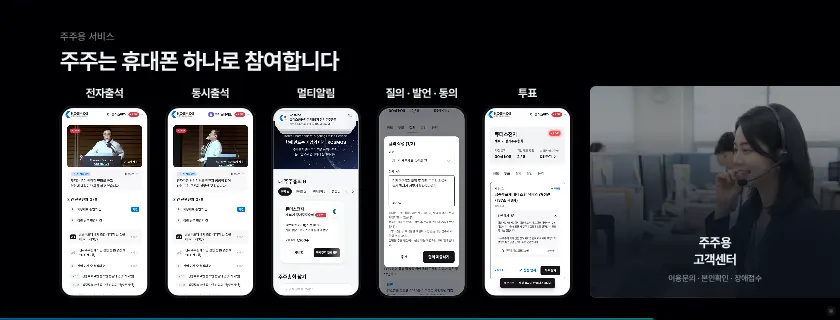
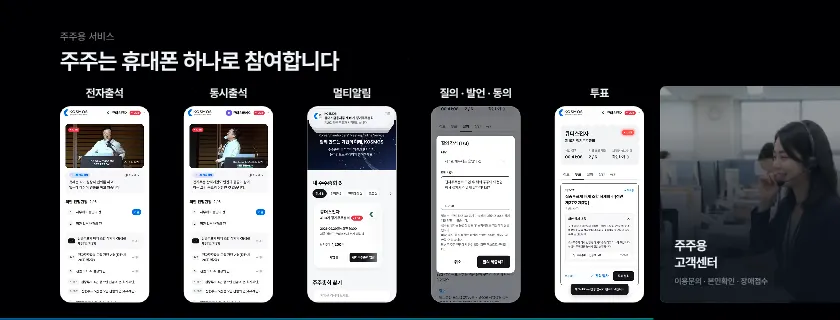
세션4 K24b 글 등장 순서(서브제목 → 제목 → 설명 → 목록), K26 휴대폰 프레임 없이 화면만 · 고객센터 카드 폭 줄이고 글 왼쪽 정렬 · 휴대폰 재정렬
Claude-Session: https://claude.ai/code/session_01Mn7NmyW5iujmmHnaRBFKBZ

diff --git a/sw.js b/sw.js
@@ -1,5 +1,5 @@
 /* 오프라인 캐시 — 온라인 주소(https)로 한 번 열면 모든 파일을 저장해 두고, 통신이 끊겨도 저장본으로 동작합니다. */
-const V='seminar-screen-11272326';
+const V='seminar-screen-11272327';
 const FILES=["./","assets/KakaoBigSans-Bold.woff2","assets/KakaoBigSans-Regular.woff2","assets/KakaoSmallSans-Bold.woff2","assets/KakaoSmallSans-Light.woff2","assets/KakaoSmallSans-Regular.woff2","assets/OrbitControls.js","assets/PretendardVariable.woff2","assets/attendees.js","assets/blue-bloom.html","assets/cong1.webp","assets/cong2.webp","assets/ds-bg.html","assets/four-states.html","assets/intro.mp4","assets/irk-white.svg","assets/irk-wordmark-white.svg","assets/kism-intro.mp4","assets/kism-white.svg","assets/ksmp-white.svg","assets/panel.js","assets/qa-online.js","assets/s2/img1.png","assets/s2/img2.png","assets/s2/img3.png","assets/s2/img4.png","assets/s4/aws.webp","assets/s4/callcenter.webp","assets/s4/chair-1.webp","assets/s4/chair-2.webp","assets/s4/chair-3.webp","assets/s4/conexus-word.webp","assets/s4/ctl-1.webp","assets/s4/cx-1.webp","assets/s4/cx-2.webp","assets/s4/cx-3.webp","assets/s4/cx-flow.mp4","assets/s4/cx-pop1.webp","assets/s4/cx-pop2.webp","assets/s4/cx-vote.mp4","assets/s4/cx-vote.webp","assets/s4/cxs-1.webp","assets/s4/insurance.webp","assets/s4/isms-t.webp","assets/s4/isms.webp","assets/s4/ismsp-t.webp","assets/s4/ismsp.webp","assets/s4/kosmos-white.png","assets/s4/ks-1.webp","assets/s4/ks-2.webp","assets/s4/ks-3.webp","assets/s4/ks-4.webp","assets/s4/ks-5.webp","assets/s4/ks-video.webp","assets/s4/live-1.webp","assets/s4/live-2.webp","assets/s4/live-3.webp","assets/s4/live-4.webp","assets/s4/live-5.webp","assets/s4/live-6.webp","assets/s4/live-7.webp","assets/s4/live-8.webp","assets/s4/logos.webp","assets/s4/ocr-1.webp","assets/s4/ocr-2.webp","assets/s4/ocr-3.webp","assets/s4/ocr-4.webp","assets/s4/ocr-5.webp","assets/s4/on-1.png","assets/s4/on-2.webp","assets/s4/on-3.webp","assets/s4/on-4.png","assets/s4/on-5.webp","assets/s4/onboard-1.webp","assets/s4/onboard-2.webp","assets/s4/privacy.webp","assets/s4/proxymity.svg","assets/s4/rehearsal.webp","assets/s4/streaming-korea.webp","assets/s4/tab-1.webp","assets/s4/tab-2.webp","assets/s4/team.webp","assets/sched.js","assets/screen-title-2.svg","assets/screen-title-b-text.svg","assets/screen-title-b.svg","assets/seat-banners.js","assets/seat-fascia.js","assets/seat-screen.js","assets/seatmap.js","assets/service-intro.mp4","assets/speaker-scott.webp","assets/speaker1-1.webp","assets/speaker2.webp","assets/speaker3-1.webp","assets/supabase.min.js","assets/three.min.js","assets/title-logos.svg","control.html","index-fs.html","index.html","kism.html","lobby/cuts.html","lobby/index.html","mc.html","session2.html","session4.html","sw.js","tools/s2_build.py","tools/s2_shell.html","assets/s3/p01.webp","assets/s3/p02.webp","assets/s3/p03.webp","assets/s3/p04.webp","assets/s3/p05.webp","assets/s3/p06.webp","assets/s3/p07.webp","assets/s3/p08.webp","assets/s3/p09.webp","assets/s3/p10.webp","assets/s3/p11.webp","assets/s3/p12.webp","assets/s3/p13.webp","assets/s3/p14.webp","assets/s3/p15.webp","assets/s3/p16.webp","assets/s3/p17.webp","assets/s3/p18.webp","assets/s3/p19.webp","assets/s3/p20.webp","assets/s3/p21.webp","assets/s3/p22.webp","assets/s3/p23.webp","assets/kism/photo-main.webp","assets/kism/photo-2.webp","assets/kism/photo-3.webp","assets/kism/photo-4.webp","assets/sound/countdown-tick.mp3","assets/sound/sfx-s3-part.mp3","assets/sound/sfx-s4-reveal.mp3","assets/sound/sfx-s5-proxymity.mp3","assets/sound/sfx-s6-chime.mp3","assets/sound/sfx-s7-close.mp3","assets/sound/sfx-k-chapter.mp3","assets/sound/sfx-k-close.mp3","assets/sound/opening-hit.mp3","assets/s4/kosmos-color.svg","assets/s4/ke-logo.png","assets/s4/ke-live.mp4","assets/kism/kwon-talk.mp4","assets/kism/manual-book.webp","kism-open.html","kism_16x9.html","led.html","assets/s4/cx-ops.mp4","assets/s4/cx-ops.webp","assets/s4/agent-app.mp4","assets/s4/kosmos-web.webp","assets/s4/ks-attend.mp4","assets/s4/ks-attend.webp","assets/s4/ks-switch.mp4","assets/s4/ks-switch.webp","assets/s4/ks-notify.mp4","assets/s4/ks-notify.webp","assets/s4/ks-vote.mp4","assets/s4/ks-vote.webp","assets/s4/ks-qna.mp4","assets/s4/ks-qna.webp","assets/s4/pc-map.webp","assets/s4/pc-map.mp4","assets/s4/pc-web.mp4","assets/s4/pc-web.webp","assets/s4/agent-app.webp","assets/s4/k24b-bg.webp","session0.html","face.html","assets/face-link.js","assets/kism/photo-main-cut.webp","assets/s4/cx-chair.mp4","assets/s4/cx-chair.webp","assets/s4/cx-test.mp4","assets/s4/cx-test.webp","assets/s4/onboard-mgr.webp","assets/s4/proxymity-logo.png","assets/s4/k21-bg.webp","assets/s4/kosmos-admin-white.svg","assets/kism-intro-16x9.mp4","assets/seat-guide.html","assets/s4/app-icon-agent.svg","assets/ds-main.mp4","assets/s4/k2-agency.webp","assets/s4/k2-support.webp","assets/s4/thumbs/K00.webp","assets/s4/thumbs/K01.webp","assets/s4/thumbs/K02.webp","assets/s4/thumbs/K03.webp","assets/s4/thumbs/K04.webp","assets/s4/thumbs/K05.webp","assets/s4/thumbs/K06.webp","assets/s4/thumbs/K07.webp","assets/s4/thumbs/K08.webp","assets/s4/thumbs/K09.webp","assets/s4/thumbs/K10.webp","assets/s4/thumbs/K11.webp","assets/s4/thumbs/K12.webp","assets/s4/thumbs/K13.webp","assets/s4/thumbs/K14.webp","assets/s4/thumbs/K15.webp","assets/s4/thumbs/K16.webp","assets/s4/thumbs/K17.webp","assets/s4/thumbs/K18a.webp","assets/s4/thumbs/K18b.webp","assets/s4/thumbs/K18c.webp","assets/s4/thumbs/K19.webp","assets/s4/thumbs/K19b.webp","assets/s4/thumbs/K19c.webp","assets/s4/thumbs/K20.webp","assets/s4/thumbs/K21.webp","assets/s4/thumbs/K21b.webp","assets/s4/thumbs/K22s.webp","assets/s4/thumbs/K23.webp","assets/s4/thumbs/K23b.webp","assets/s4/thumbs/K24a.webp","assets/s4/thumbs/K24b.webp","assets/s4/thumbs/K24c.webp","assets/s4/thumbs/K25.webp","assets/s4/thumbs/K25b.webp","assets/s4/thumbs/K26.webp","assets/s4/thumbs/K27.webp","assets/s4/thumbs/K28a.webp","assets/s4/thumbs/K28b.webp","assets/s4/thumbs/K28c.webp","assets/s4/thumbs/K28d.webp","assets/s4/thumbs/K29.webp","assets/s4/thumbs/K30.webp","assets/s4/thumbs/K09b.webp","assets/s4/thumbs/K28e.webp","assets/s4/thumbs/K28p.webp","assets/s4/onsite-vote.mp4","assets/s4/onsite-vote.webp","assets/s4/rehearsal-site.webp","assets/qr-ask.svg","assets/inv/bnp.png","assets/inv/bny.png","assets/inv/citi.png","assets/inv/computershare.png","assets/inv/deutsche-bank.png","assets/inv/deutsche-boerse.png","assets/inv/euroclear.png","assets/inv/hsbc.png","assets/inv/jpmorgan.png","assets/inv/mufg.png","assets/inv/state-street.png","assets/proxymity-logo.png","assets/sound/break-bgm.mp3","assets/sound/wait-bgm.mp3","assets/s4/beacon.webp","assets/s4/k27-partner.webp"];
 self.addEventListener('install',e=>{e.waitUntil(caches.open(V).then(c=>c.addAll(FILES)).then(()=>self.skipWaiting()));});
 self.addEventListener('activate',e=>{e.waitUntil(caches.keys().then(ks=>Promise.all(ks.filter(k=>k!==V).map(k=>caches.delete(k)))).then(()=>self.clients.claim()));});

diff --git a/session4.html b/session4.html
@@ -2299,6 +2299,15 @@ html.r169 #K13 .dg{margin-bottom:210px!important}
 #K24b .k24fl .k24bv .scr{border-radius:54px!important}
 #K24a .k24map{padding:22px;border-radius:56px 0 0 0!important;background:linear-gradient(135deg,rgba(0,129,204,.55),rgba(0,173,169,.35) 45%,rgba(255,255,255,.08))!important;box-shadow:0 0 160px rgba(0,129,204,.22)!important}
 #K24a .k24map video{border-radius:36px 0 0 0;box-shadow:0 0 0 2px rgba(255,255,255,.6)}
+/* 11/27 23:40 K24b 왼쪽 글 등장 순서: 서브제목 → 제목 → 설명 → 목록 (목록이 먼저 뜨던 것 수정) */
+.s.cur#K24b .k24bt>:nth-child(1){animation-delay:.2s!important}.s.cur#K24b .k24bt>:nth-child(2){animation-delay:.35s!important}.s.cur#K24b .k24bt>:nth-child(3){animation-delay:.55s!important}.s.cur#K24b .k24bt>:nth-child(4){animation-delay:.8s!important}
+
+/* 11/27 23:45 K26 휴대폰 프레임 없이 화면만(446×981, 둥근 모서리), 고객센터 카드 폭 줄이고(3300~오른쪽 끝) 글 왼쪽 정렬, 남는 폭에 휴대폰 고르게 */
+#K26 .k26r{width:2920px!important}
+#K26 .k26p{width:446px!important;height:981px!important;padding:0!important;background:none!important;box-shadow:0 40px 100px rgba(0,0,0,.5)!important;border-radius:52px!important}
+#K26 .k26p .sc{border-radius:52px!important}
+#K26 .k26s{left:3300px!important;height:1082px!important;align-items:flex-start!important;text-align:left!important;padding:0 72px 80px!important;box-sizing:border-box}
+#K26 .k26s i{background-position:62% 30%!important;background-size:cover!important}
 /* ═════ 16:9 버전 (?a=16x9, 11/27) ═════
    ※ 빔프로젝터(led.html?a=16x9) M7-7이 이 모드를 씀. 장을 고치면 ?a=16x9로도 확인하고, 21:8 원본 위치를 바꾸면 아래 html.r169 #Kxx 규칙도 같이 맞출 것.
       R169Z(묶음 축소) 장은 내용 범위를 자동으로 재서 배치하므로 대부분 따라감.
